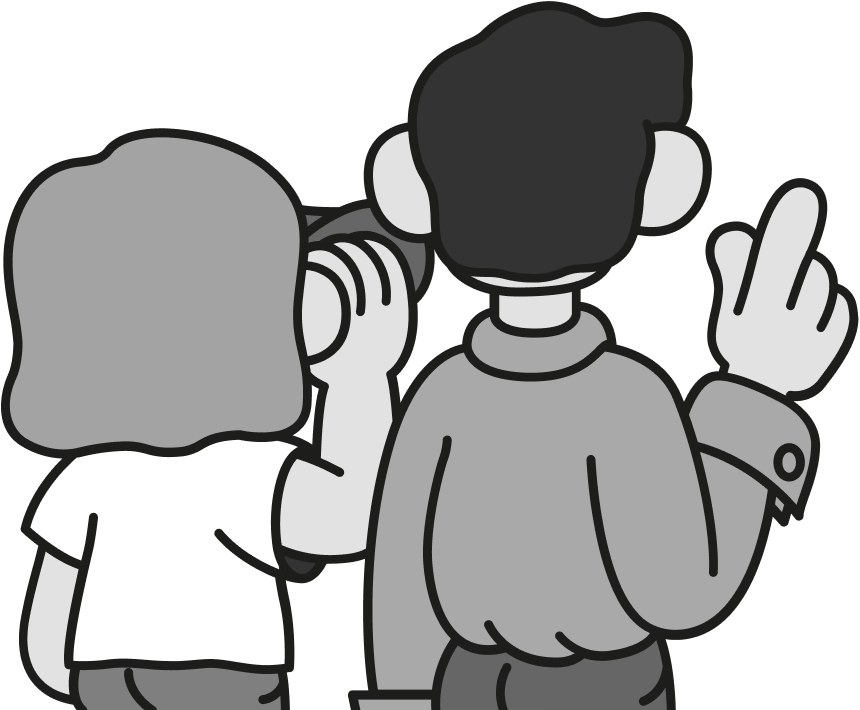
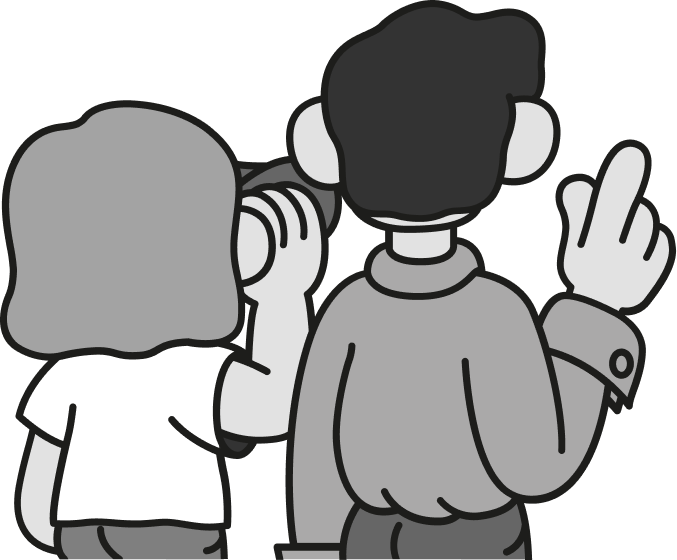
Index page with illustrated background.

diff --git a/src/components/IndexPage/index.tsx b/src/components/IndexPage/index.tsx
@@ -2,13 +2,9 @@ import styled from "@emotion/styled";
 import { Global, css } from "@emotion/react";
 
 import { NextChapterBanner } from "~/components/NextChapterBanner";
-import { getLaunchDateForChapter } from "~/chapters";
 
 import { Billboard as BillboardImg } from "./Billboard";
-
 import charactersLayerImg from "~/assets/main/characters.png";
-import hillsBackLayerImg from "~/assets/main/hills-back.png";
-import hillsFrontLayerImg from "~/assets/main/hills-front.png";
 
 export const IndexPage = () => {
   return (
@@ -16,12 +12,14 @@ export const IndexPage = () => {
       <Global styles={styles} />
 
       <Centered>
-        <HillsBack />
         <Billboard>
           <BillboardImg />
         </Billboard>
 
-        <HillsFront />
+        <MenuLayer>
+          <NextChapterBanner launchDate={new Date(2023, 1, 1)} />
+        </MenuLayer>
+
         <Characters />
       </Centered>
     </>
@@ -30,97 +28,104 @@ export const IndexPage = () => {
 
 const styles = css`
   :root {
-    --color-main-background: #c7c7c7;
+    --color-main-background: var(--color-subtle-gray);
     background: var(--color-main-background);
   }
 `;
 
 const Layer = styled.div`
   position: fixed;
-  // pointer-events: none;
+  pointer-events: none;
+`;
+
+const MenuLayer = styled(Layer)`
+  left: 0;
+  right: 0;
+  top: 360px;
+  display: flex;
+  align-items: center;
+  justify-content: center;
+
+  @media (max-height: 800px) {
+    top: 260px;
+  }
+
+  @media (max-height: 640px) {
+    top: 230px;
+  }
+
+  @media (max-height: 520px) {
+    top: 160px;
+  }
+
+  @media (max-width: 420px), (max-height: 468px) {
+    left: 460px;
+
+    justify-content: flex-start;
+    top: 0;
+    bottom: 0;
+  }
 `;
 
 const Billboard = styled(Layer)`
-  left: calc(16px + 7vw);
-  bottom: calc(280px + 10vh);
+  --height: 340px;
+
+  left: 0;
   right: 0;
-  height: 320px;
+  height: var(--height);
+  top: calc(3vh);
+  top: calc(3svh);
   display: flex;
-  justify-content: flex-start;
+  justify-content: center;
   aling-items: center;
 
   > svg {
     height: 100%;
   }
 
-  @media (max-width: 640px), (max-height: 520px) {
-    height: 220px;
-    left: 24px;
-    right: 24px;
-    bottom: auto;
+  @media (max-height: 800px) {
+    height: calc(0.8 * var(--height));
   }
 
-  // center and resize based on screen width
-  @media (max-width: 640px) {
-    top: 50px;
-    justify-content: center;
+  @media (max-height: 640px) {
+    height: calc(0.6 * var(--height));
+  }
+
+  @media (max-height: 520px) {
+    height: calc(0.45 * var(--height));
+  }
+
+  @media (max-width: 420px), (max-height: 468px) {
+    justify-content: flex-start;
+    left: 16px;
+    background-position: bottom left;
   }
 `;
 
 const Characters = styled(Layer)`
-  background: url("${charactersLayerImg}") no-repeat left top / contain;
-  left: calc(-32px + 10vw);
+  --height: 280px;
+
+  background: url("${charactersLayerImg}") no-repeat center bottom / contain;
+  left: 0;
   right: 0;
   bottom: 0;
-  height: 320px;
+  height: var(--height);
 
-  @media (max-width: 640px), (max-height: 520px) {
-    left: 32px;
-    right: 32px;
-    bottom: -6px;
-    height: 216px;
+  @media (max-height: 800px) {
+    height: calc(0.9 * var(--height));
   }
 
-  @media (max-width: 640px), {
-    background-position: center bottom;
-  }
-`;
-
-const HillsBack = styled(Layer)`
-  background: url("${hillsBackLayerImg}") no-repeat left top / auto 320px;
-  right: 0;
-  left: calc(-64px + 8vw);
-  bottom: calc(180px + 10vh);
-  height: 320px;
-
-  @media (max-width: 640px), (max-height: 520px) {
-    bottom: auto;
-    top: 64px;
-    left: 0;
-    right: 0;
-    background-size: auto 212px;
-    height: 212px;
-    background-position: center;
-  }
-`;
-
-const HillsFront = styled(Layer)`
-  background: url("${hillsFrontLayerImg}") no-repeat left top / auto 208px;
-  left: calc(464px + 8vw);
-  right: 0;
-  bottom: 64px;
-  height: 208px;
-
-  @media (max-width: 640px), (max-height: 520px) {
-    height: 148px;
-    background-size: auto 148px;
-
-    left: 364px;
-    bottom: 24px;
+  @media (max-height: 640px) {
+    height: calc(0.7 * var(--height));
   }
 
-  @media (max-width: 640px) {
-    display: none;
+  @media (max-height: 520px) {
+    height: calc(0.6 * var(--height));
+  }
+
+  @media (max-width: 420px), (max-height: 468px) {
+    left: 48px;
+    background-position: bottom left;
   }
 `;
 

diff --git a/src/components/IndexPage/Billboard.tsx b/src/components/IndexPage/Billboard.tsx
@@ -1,14 +1,14 @@
 import styled from "@emotion/styled";
 import { SVGTextWithOuterStroke } from "./SVGTextWithOuterStroke";
-import billboardImg from "~/assets/main/billboard.png";
+import billboardImg from "~/assets/main/billboard-hills.png";
 import { ComponentProps } from "react";
 
 export const Billboard = (props: ComponentProps<"svg">) => {
   return (
-    <svg viewBox="0 0 540 380" {...props}>
-      <image xlinkHref={billboardImg} x="0" y="0" width="519" height="372" />
+    <svg viewBox="0 0 885 340" {...props}>
+      <image xlinkHref={billboardImg} x="0" y="0" width="885" height="340" />
 
-      <g transform="rotate(-6) translate(212 190) skewX(-6) scale(0.85)">
+      <g transform="rotate(-6) translate(416 172) skewX(-6) scale(0.68)">
         <Subtitle transform="translate(70, 42)" stroke="white" strokeWidth="8">
           лимитед
         </Subtitle>
